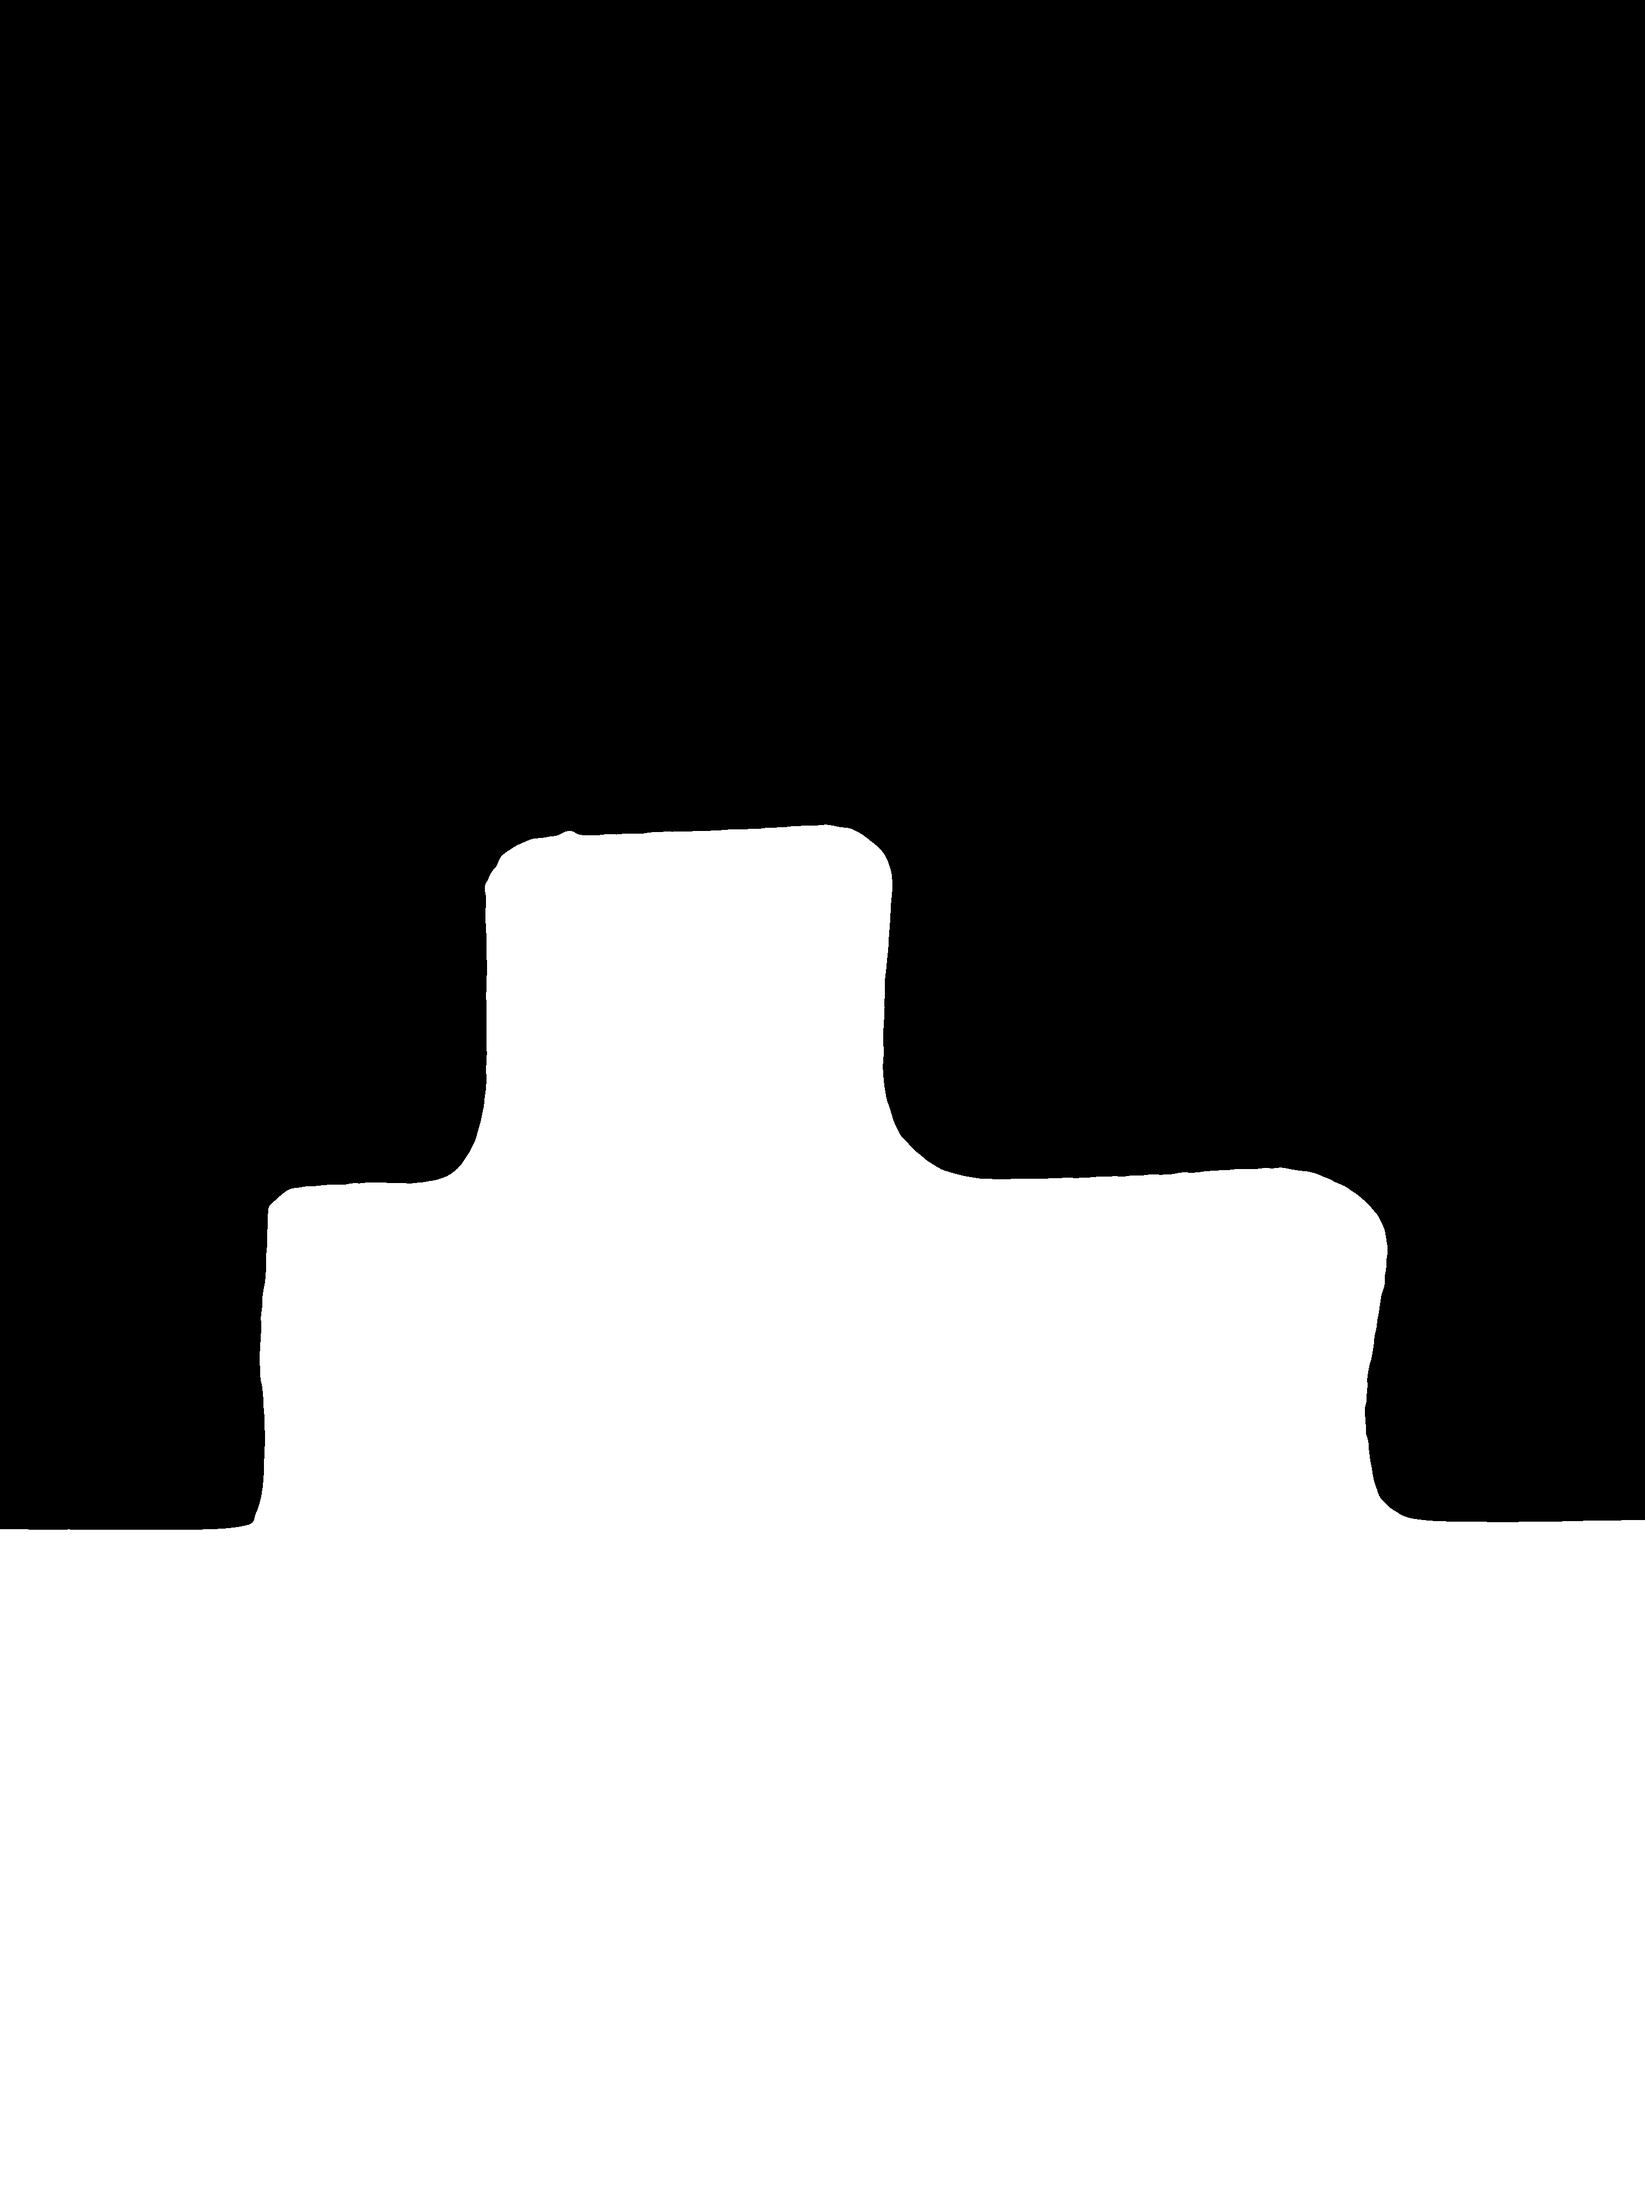
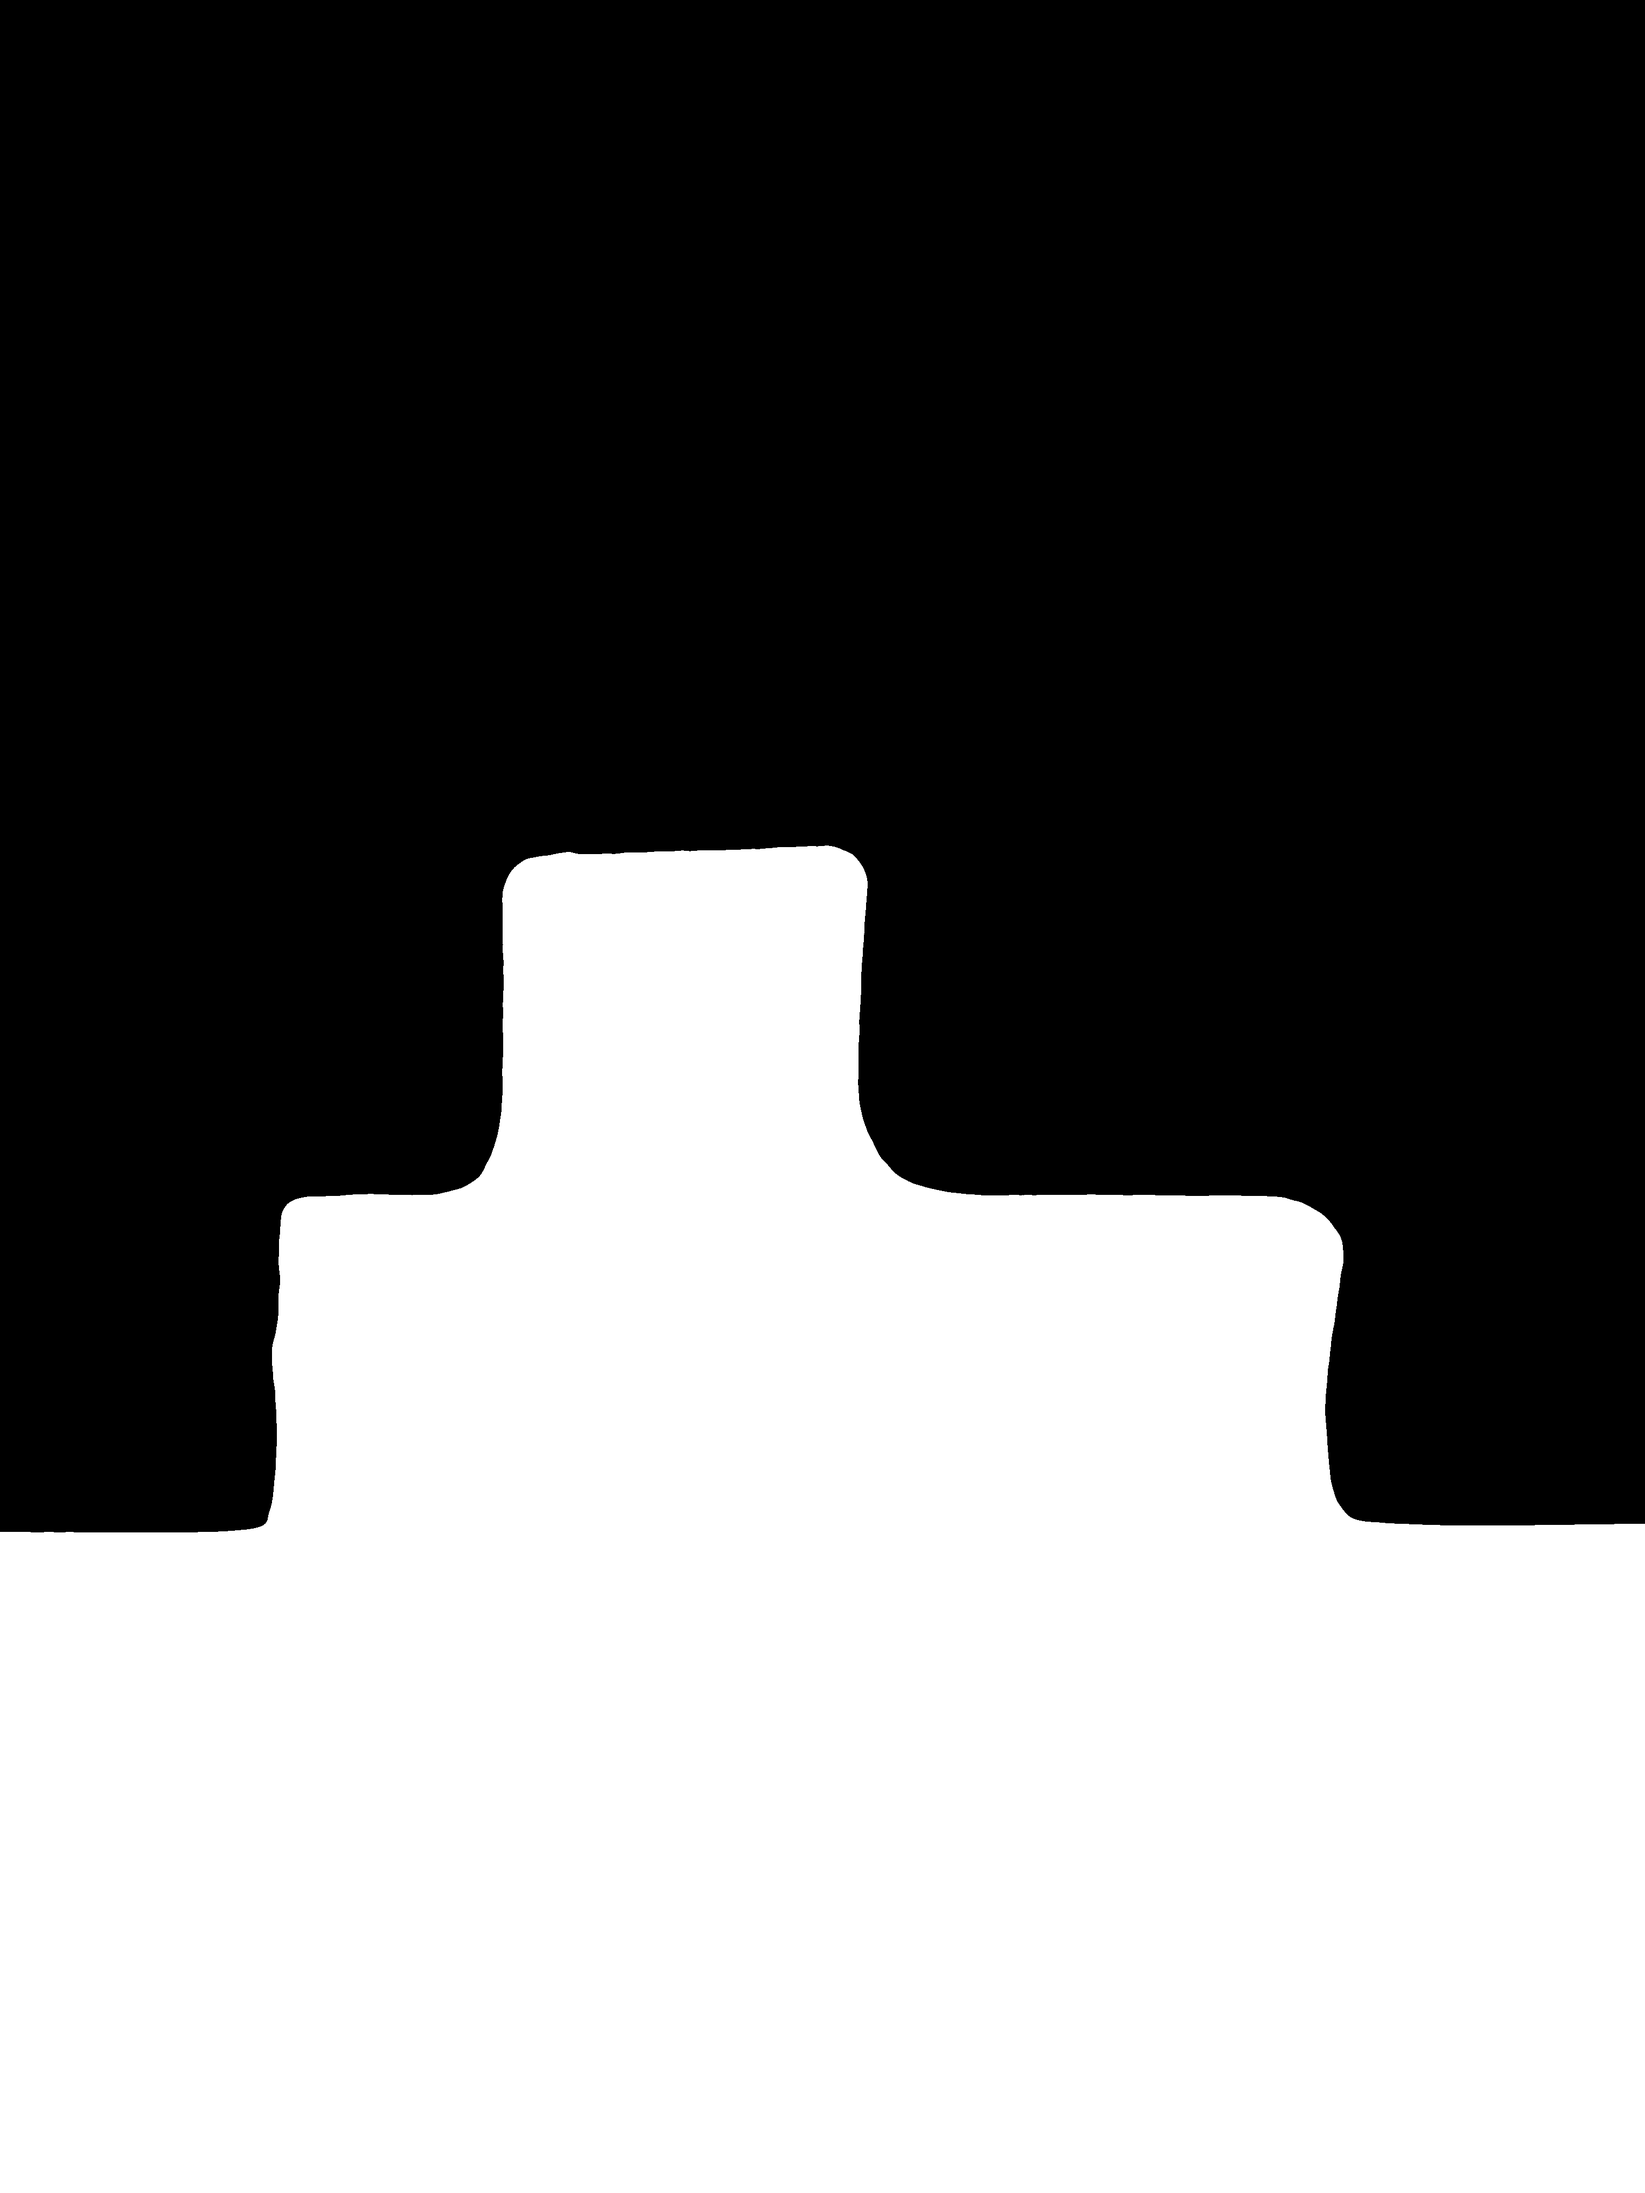
Removed obsolete references to polyline fit step

Changed region(s): [[0.1552, 0.3735, 0.8693, 0.7159]]

diff --git a/pipeline.py b/pipeline.py
@@ -59,26 +59,23 @@ img_thresh = (img_gray < threshold).astype(np.uint8) * 255
 # step #3: Find contours, keep only the largest one
 img_cont = ip.keep_largest_contour(img_thresh) #<-- custom function to keep only largest object
 
-# step #4: Remove holes to create 1 continuous region <-- SAGE ADD HERE
-img_filled = ip.hole_removal(img_cont) #<-- custom function to remove holes
-
-# step #5: Trace with polylines
-img_poly = img_filled
+# step #4: Remove holes to create 1 continuous region
+img_final = ip.hole_removal(img_cont) #<-- custom function to remove holes
 
 # Save results to /Results
-mask_out = (img_poly > 0).astype(np.uint8) * 255 # normalize to 255
+mask_out = (img_final > 0).astype(np.uint8) * 255 # normalize to 255
 if mask_out.ndim == 3:
     mask_out = mask_out.max(axis=2)
 mask_path = os.path.join("results", f"{filename}_result.png")
 cv2.imwrite(mask_path, mask_out)
 
 # Display each step of the pipeline
-disp.images([img, img_thresh, img_cont, img_filled, img_poly],
-            ['Original', 'Thresholded', 'Contour', 'Filled', 'Polyline'])
+disp.images([img, img_blur, img_thresh, img_cont, img_final],
+            ['Original', 'Grayscale + Blur', 'Thresholded', 'Contour', 'Filled (Final)'])
 
 if benchmark is not None:
-    mean_dist = eval.mean_edge_distance(img_poly, benchmark)
-    IoU_score = eval.IoU(img_poly, benchmark)
+    mean_dist = eval.mean_edge_distance(img_final, benchmark)
+    IoU_score = eval.IoU(img_final, benchmark)
 
     print(f"Mean edge distance: {mean_dist:.2f}")
     print(f"Intersection over Union: {IoU_score:.2f}")
